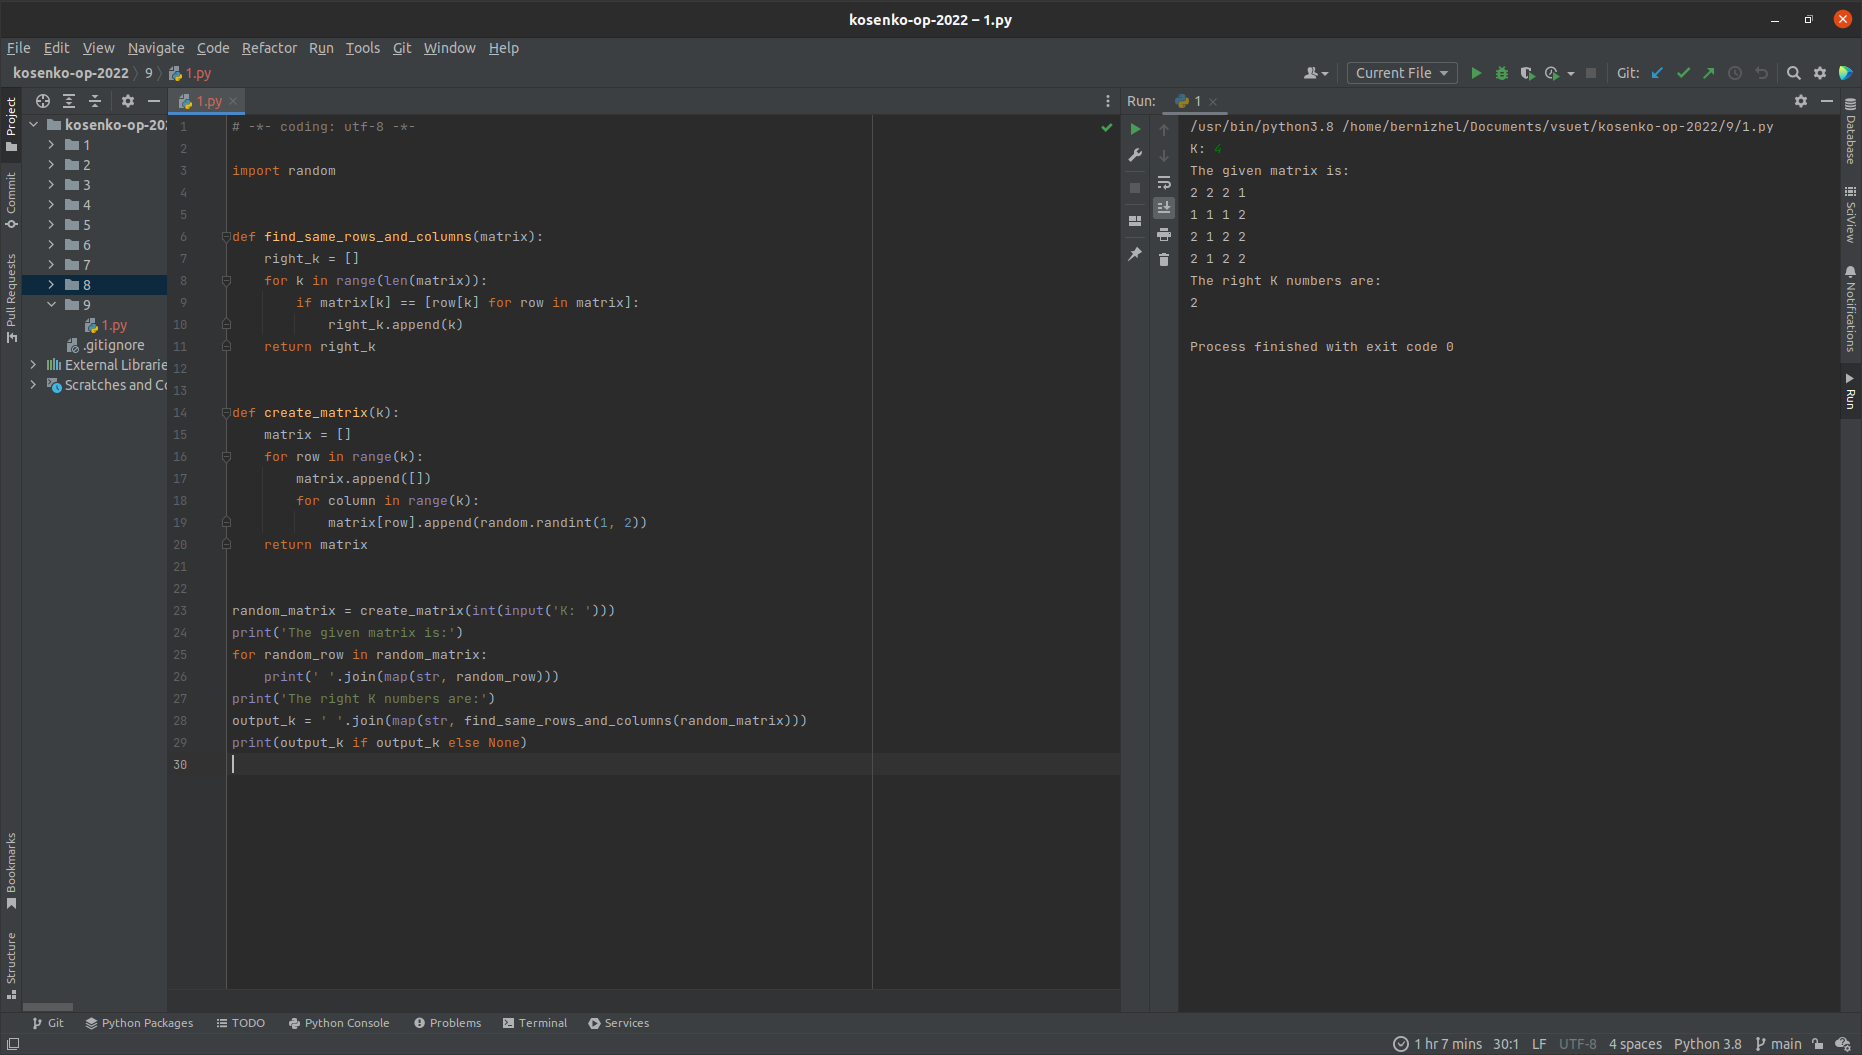
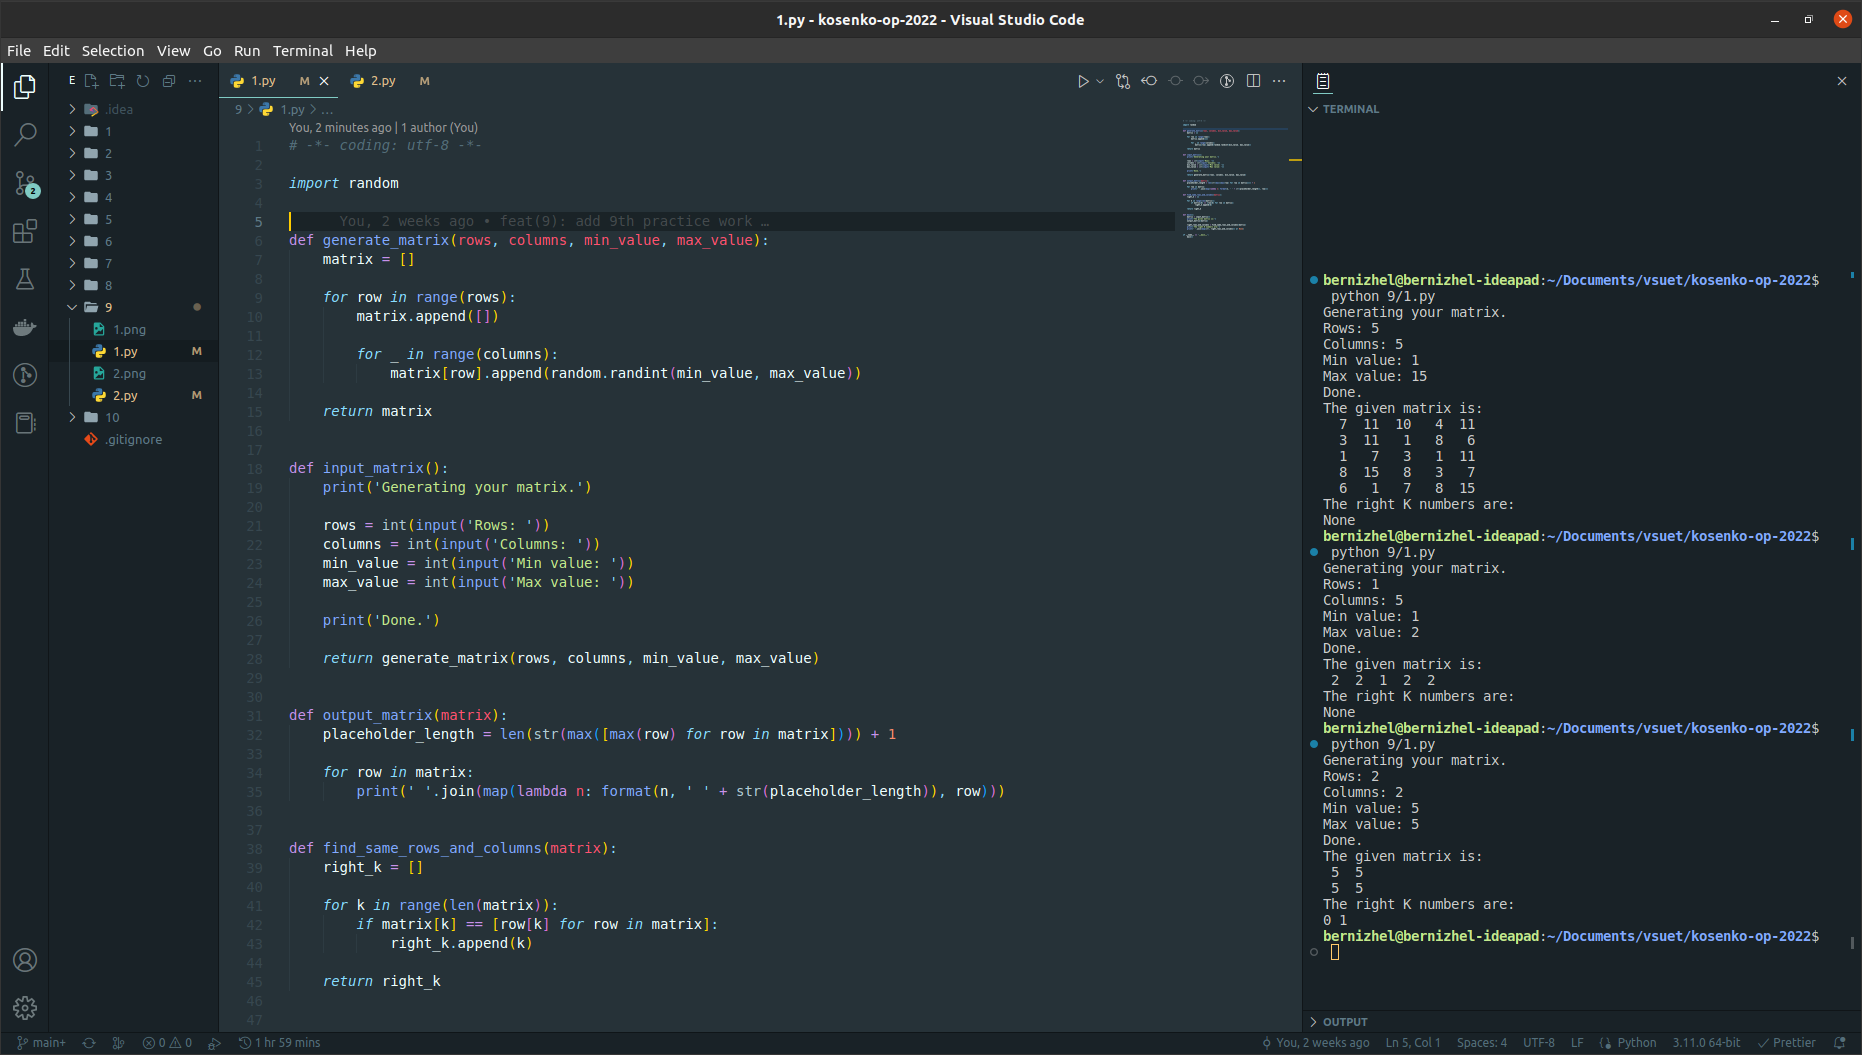
refactor(9): enhance the 9th practice work files

diff --git a/9/1.py b/9/1.py
@@ -3,27 +3,57 @@
 import random
 
 
-def find_same_rows_and_columns(matrix):
-    right_k = []
-    for k in range(len(matrix)):
-        if matrix[k] == [row[k] for row in matrix]:
-            right_k.append(k)
-    return right_k
-
-
-def create_matrix(k):
+def generate_matrix(rows, columns, min_value, max_value):
     matrix = []
-    for row in range(k):
+    
+    for row in range(rows):
         matrix.append([])
-        for column in range(k):
-            matrix[row].append(random.randint(1, 2))
+
+        for _ in range(columns):
+            matrix[row].append(random.randint(min_value, max_value))
+    
     return matrix
 
 
-random_matrix = create_matrix(int(input('K: ')))
-print('The given matrix is:')
-for random_row in random_matrix:
-    print(' '.join(map(str, random_row)))
-print('The right K numbers are:')
-output_k = ' '.join(map(str, find_same_rows_and_columns(random_matrix)))
-print(output_k if output_k else None)
+def input_matrix():
+    print('Generating your matrix.')
+
+    rows = int(input('Rows: '))
+    columns = int(input('Columns: '))
+    min_value = int(input('Min value: '))
+    max_value = int(input('Max value: '))
+
+    print('Done.')
+
+    return generate_matrix(rows, columns, min_value, max_value)
+
+
+def output_matrix(matrix):
+    placeholder_length = len(str(max([max(row) for row in matrix]))) + 1
+
+    for row in matrix:
+        print(' '.join(map(lambda n: format(n, ' ' + str(placeholder_length)), row)))
+
+
+def find_same_rows_and_columns(matrix):
+    right_k = []
+
+    for k in range(len(matrix)):
+        if matrix[k] == [row[k] for row in matrix]:
+            right_k.append(k)
+
+    return right_k
+
+
+def main():
+    matrix = input_matrix()
+    print('The given matrix is:')
+    output_matrix(matrix)
+
+    right_rows_and_columns = find_same_rows_and_columns(matrix)
+    print('The right K numbers are:')
+    print(' '.join(map(str, right_rows_and_columns)) or None)
+
+
+if __name__ == '__main__':
+    main()

diff --git a/9/2.py b/9/2.py
@@ -3,6 +3,38 @@
 import random
 
 
+def generate_matrix(rows, columns, min_value, max_value):
+    matrix = []
+
+    for row in range(rows):
+        matrix.append([])
+
+        for _ in range(columns):
+            matrix[row].append(random.randint(min_value, max_value))
+
+    return matrix
+
+
+def input_matrix():
+    print('Generating your matrix.')
+
+    rows = int(input('Rows: '))
+    columns = int(input('Columns: '))
+    min_value = int(input('Min value: '))
+    max_value = int(input('Max value: '))
+
+    print('Done.')
+
+    return generate_matrix(rows, columns, min_value, max_value)
+
+
+def output_matrix(matrix):
+    placeholder_length = len(str(max([max(row) for row in matrix]))) + 1
+
+    for row in matrix:
+        print(' '.join(map(lambda n: format(n, ' ' + str(placeholder_length)), row)))
+
+
 def subtract_last_row(matrix):
     last_row = matrix[-1]
     for row_index in range(len(matrix) - 1):
@@ -12,21 +44,15 @@ def subtract_last_row(matrix):
     return matrix
 
 
-def create_matrix():
-    matrix = []
-    n = random.randint(2, 5)
-    m = random.randint(2, 5)
-    for row in range(n):
-        matrix.append([])
-        for column in range(m):
-            matrix[row].append(random.randint(1, 9))
-    return matrix
+def main():
+    matrix = input_matrix()
+    print('The given matrix is:')
+    output_matrix(matrix)
+
+    matrix = subtract_last_row(matrix)
+    print('The modified matrix is:')
+    output_matrix(matrix)
 
 
-random_matrix = create_matrix()
-print('The given matrix is:')
-for random_row in random_matrix:
-    print(' '.join(map(str, random_row)))
-print('The modified matrix is:')
-for random_row in subtract_last_row(random_matrix):
-    print(' '.join(map(lambda n: f'{n:2d}', random_row)))
+if __name__ == '__main__':
+    main()
